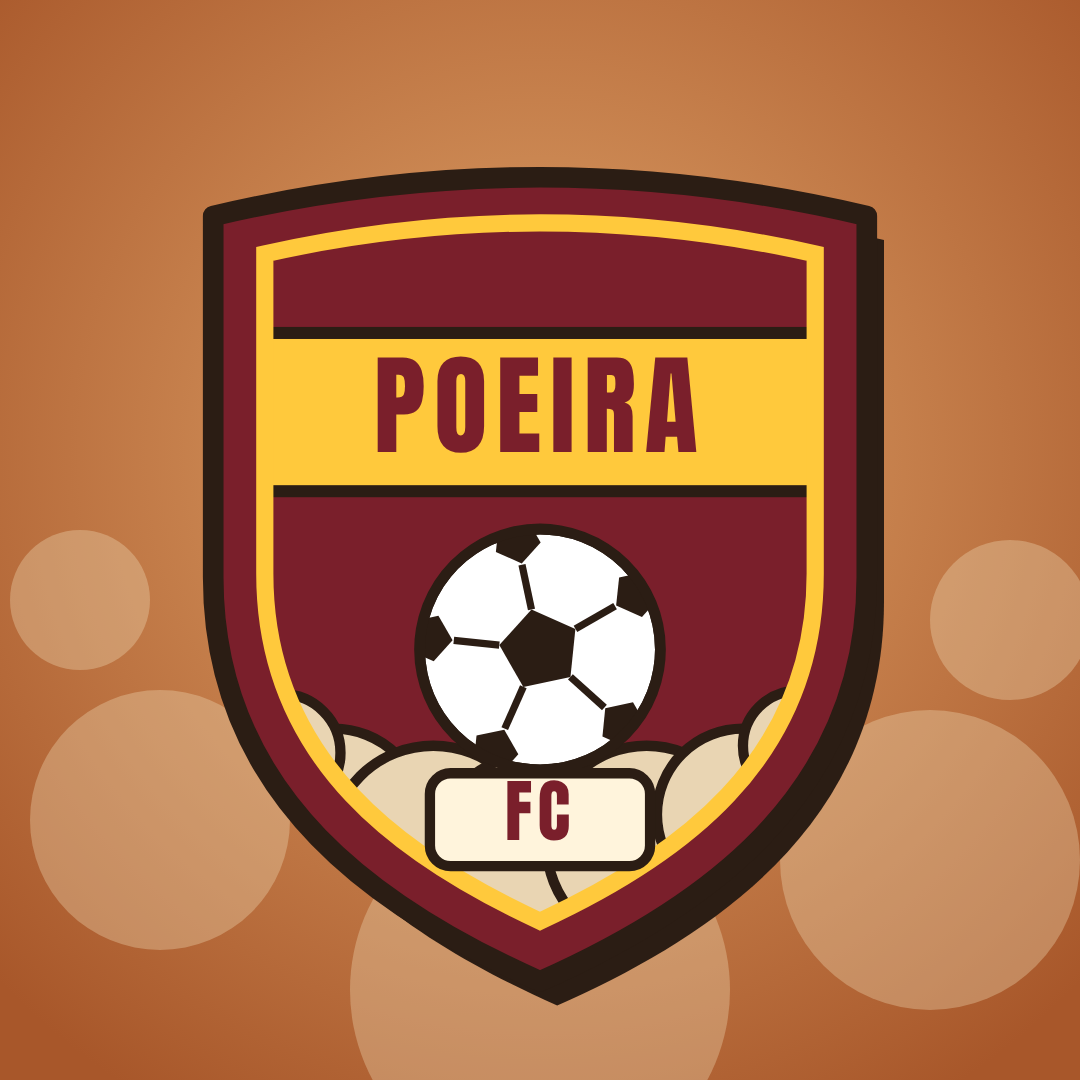
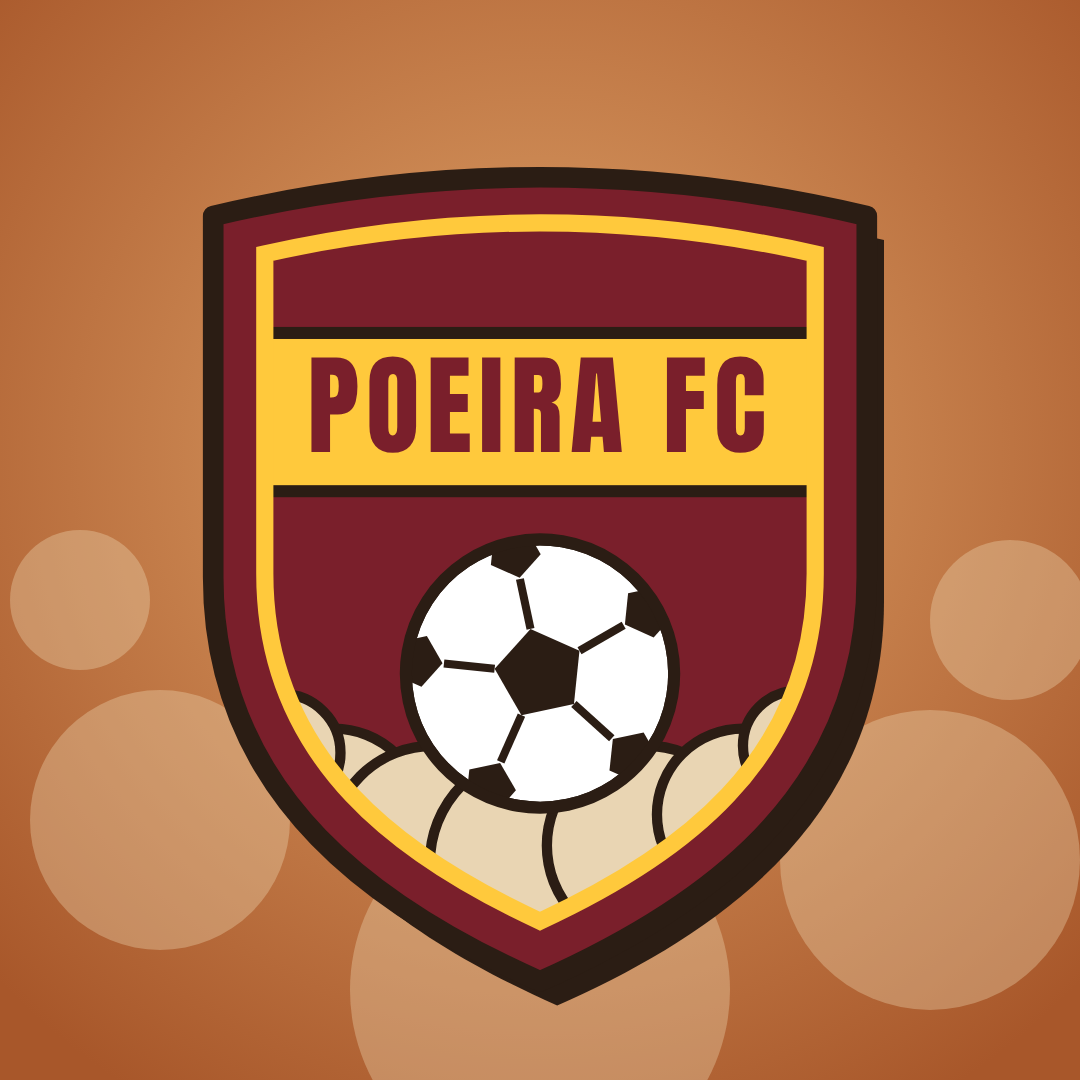
Escudo: POEIRA FC na faixa amarela, sem a placa de baixo
Claude-Session: https://claude.ai/code/session_01Q2GC5Zo3GDGZVHNM2m7WK7

Changed region(s): [[0.3667, 0.4583, 0.6417, 0.825], [0.275, 0.3056, 0.7333, 0.4278]]

diff --git a/video/arte.js b/video/arte.js
@@ -615,7 +615,7 @@ function bola(r) {
 }
 
 let _idEscudo = 0;
-function escudoPoeira({ estrelas = 0, nome = 'POEIRA', sub = 'FC', ano = '' } = {}) {
+function escudoPoeira({ estrelas = 0, nome = 'POEIRA FC' } = {}) {
   const id = 'ep' + (_idEscudo++);
   const vinho = CORES.vinho, ouro = CORES.amarelo, creme = CORES.creme;
   const forma = 'M-190,-200 Q0,-245 190,-200 L190,10 C190,140 90,205 0,245 C-90,205 -190,140 -190,10 Z';
@@ -626,7 +626,7 @@ function escudoPoeira({ estrelas = 0, nome = 'POEIRA', sub = 'FC', ano = '' } = 
   const est = Array.from({ length: estrelas }, (_, i) => {
     const x = (i - (estrelas - 1) / 2) * 46;
     return `<path transform="translate(${x} -268) scale(1.1)" d="M0,-18 L5,-6 L18,-6 L8,2 L12,15 L0,7 L-12,15 L-8,2 L-18,-6 L-5,-6Z" fill="${ouro}" stroke="${OUT}" stroke-width="4"/>`; }).join('');
-  const tamNome = Math.min(64, 290 / Math.max(1, medir(nome, 1) + 0.02 * nome.length));
+  const tamNome = Math.min(64, 300 / Math.max(1, medir(nome, 1) + 0.04 * nome.length));
   return `<g><defs><clipPath id="${id}"><path d="${interna}"/></clipPath></defs>
     <path d="${forma}" fill="${OUT}" transform="translate(10 14)"/>
     <path d="${forma}" fill="${vinho}" stroke="${OUT}" stroke-width="12" stroke-linejoin="round"/>
@@ -636,10 +636,8 @@ function escudoPoeira({ estrelas = 0, nome = 'POEIRA', sub = 'FC', ano = '' } = 
       <path d="M-150,150 q-20,-10 -40,-4 M150,140 q20,-10 40,-3" stroke="#e9d5b3" stroke-width="10" fill="none" stroke-linecap="round"/>
     </g>
     <path d="${interna}" fill="none" stroke="${ouro}" stroke-width="10"/>
-    <text y="${-86 + tamNome * 0.36}" text-anchor="middle" font-family="Anton" font-size="${tamNome}" fill="${vinho}" letter-spacing="5">${esc(nome)}</text>
-    <g transform="translate(0 52) rotate(-12)">${bola(70)}</g>
-    <rect x="-64" y="${ano ? 120 : 124}" width="128" height="${ano ? 58 : 54}" rx="12" fill="${creme}" stroke="${OUT}" stroke-width="6"/>
-    <text y="${ano ? 158 : 163}" text-anchor="middle" font-family="Anton" font-size="${ano ? 26 : 40}" fill="${vinho}" letter-spacing="3">${esc(ano ? sub + ' · ' + ano : sub)}</text>
+    <text y="${-86 + tamNome * 0.36}" text-anchor="middle" font-family="Anton" font-size="${tamNome}" fill="${vinho}" letter-spacing="4">${esc(nome)}</text>
+    <g transform="translate(0 66) rotate(-12)">${bola(78)}</g>
     ${est}</g>`;
 }
 Object.assign(window, { escudoPoeira, bola });
